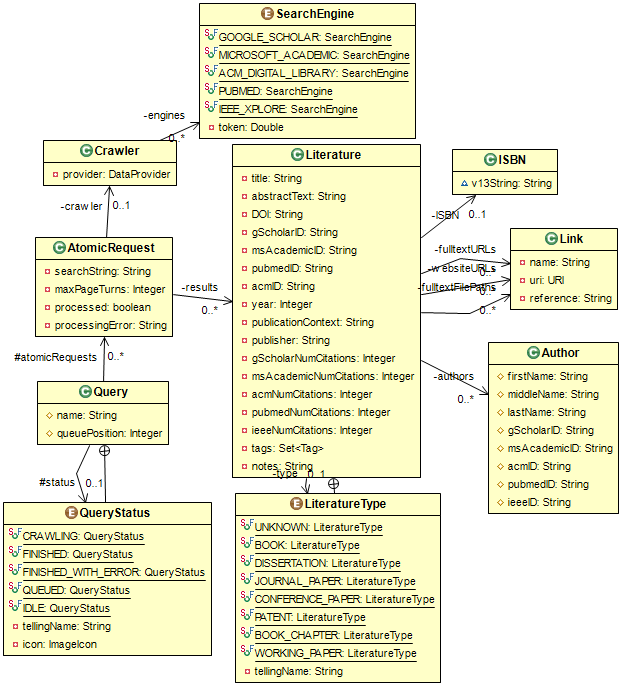
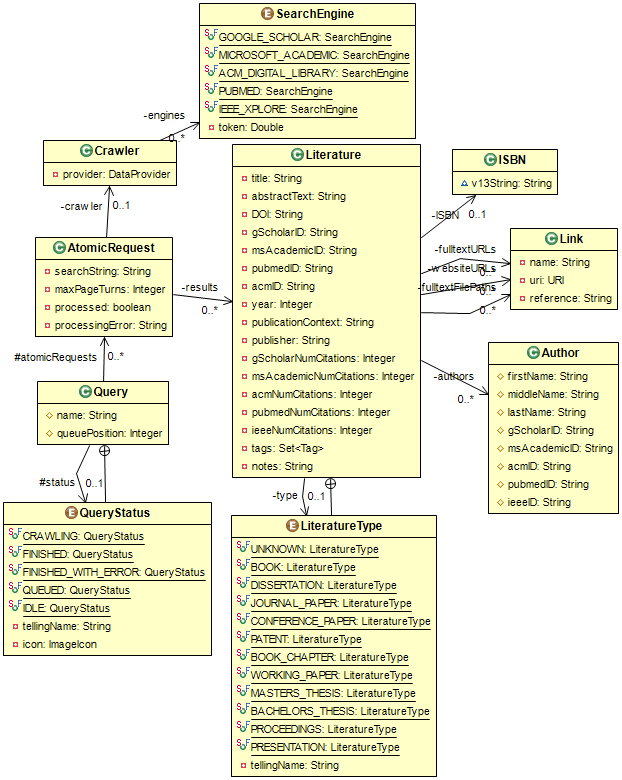
cleanup; added literature type presentation

diff --git a/src/main/java/com/github/bfour/fpliteraturecollector/domain/Literature.java b/src/main/java/com/github/bfour/fpliteraturecollector/domain/Literature.java
@@ -35,7 +35,8 @@ public class Literature extends Neo4JEntity implements Searchable {
 				"journal paper"), CONFERENCE_PAPER("conference paper"), PATENT(
 				"patent"), BOOK_CHAPTER("book chapter"), WORKING_PAPER(
 				"working paper"), MASTERS_THESIS("master's thesis"), BACHELORS_THESIS(
-				"bachelor's thesis");
+				"bachelor's thesis"), PROCEEDINGS("proceedings"), PRESENTATION(
+				"presentation");
 
 		private String tellingName;
 

diff --git a/src/main/java/com/github/bfour/fpliteraturecollector/application/Application.java b/src/main/java/com/github/bfour/fpliteraturecollector/application/Application.java
@@ -51,9 +51,6 @@ public class Application {
 			builder.headless(false);
 			ConfigurableApplicationContext context = builder.run(args);
 
-			// ConfigurableApplicationContext context;
-			// context = new ClassPathXmlApplicationContext("SpringConfig.xml");
-
 			// Neo4jResource myBean = context.getBean(Neo4jResource.class);
 			// myBean.functionThatUsesTheRepo();
 
